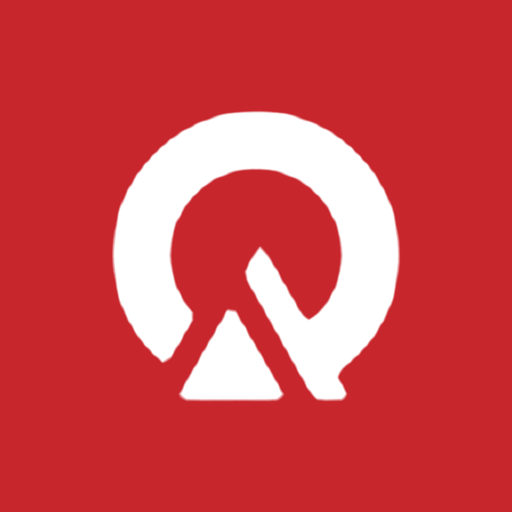
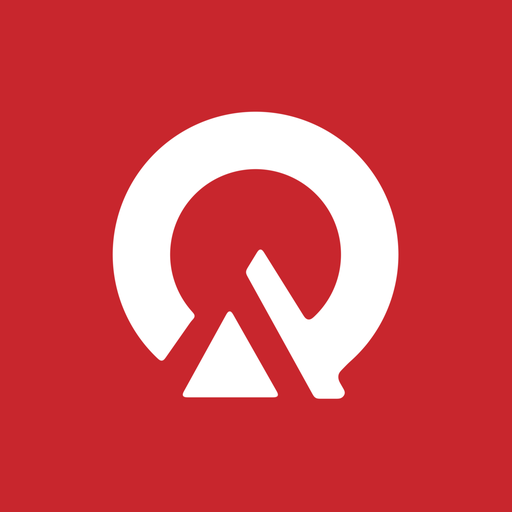
QAYO İNŞAAT ikon: loqo təmiz vektor kimi yenidən çəkildi
Claude-Session: https://claude.ai/code/session_015bWUqTrwxP6WJD2huPpqwx

diff --git a/assets/ikon/ikon-yarat.py b/assets/ikon/ikon-yarat.py
@@ -1,0 +1,32 @@
+from PIL import Image, ImageDraw, ImageFilter
+SS=8
+def mark_mask():
+    W,H=(520+30)*SS,(520+30)*SS
+    off=15
+    def P(pts): return [((x+off)*SS,(y+off)*SS) for x,y in pts]
+    m=Image.new("L",(W,H),0);d=ImageDraw.Draw(m)
+    cx,cy,R,r=308,299,204,122
+    d.ellipse([(cx-R+off)*SS,(cy-R+off)*SS,(cx+R+off)*SS,(cy+R+off)*SS],fill=255)
+    d.ellipse([(cx-r+off)*SS,(cy-r+off)*SS,(cx+r+off)*SS,(cy+r+off)*SS],fill=0)
+    d.polygon(P([(217,393),(100,560),(100,640),(468,640),(293,324)]),fill=0)
+    d.polygon(P([(315,288),(293,324),(393,505),(431,505),(437,497),(426,478),(426,469),(468,426),(440,400),(380,392)]),fill=255)
+    d.polygon(P([(271,376),(201,503),(343,503)]),fill=255)
+    m=m.filter(ImageFilter.GaussianBlur(3.2*SS))  # soften corners
+    import numpy as np
+    a=np.array(m).astype(float)/255;a=np.clip((a-0.5)*10+0.5,0,1)
+    m=Image.fromarray((a*255).astype("uint8"))
+    bbox=((104-6+off)*SS,(95-6+off)*SS,(512+7+off)*SS,(506+7+off)*SS)
+    return m.crop(bbox)
+RED=(200,38,45)
+def icon(S,ratio,mark):
+    T=S*4;mw,mh=mark.size;k=ratio*T/max(mw,mh)
+    mm=mark.resize((int(mw*k),int(mh*k)),Image.LANCZOS)
+    b=Image.new("RGB",(T,T),RED);b.paste((255,255,255),((T-mm.size[0])//2,(T-mm.size[1])//2),mm)
+    return b.resize((S,S),Image.LANCZOS)
+if __name__=="__main__":
+    mk=mark_mask()
+    i=icon(1024,0.58,mk);i.save("V-ikon-1024.png")
+    for n,s in [("qayo-pwa-192.png",192),("qayo-pwa-512.png",512),("qayo-apple-touch-180.png",180)]: icon(s,0.58,mk).save("V-"+n)
+    icon(512,0.42,mk).save("V-qayo-pwa-maskable-512.png")
+    p=i.resize((400,400),Image.LANCZOS);k=Image.new("L",(400,400),0);ImageDraw.Draw(k).rounded_rectangle((0,0,399,399),90,fill=255)
+    sh=Image.new("RGB",(460,460),(238,240,244));sh.paste(p,(30,30),k);sh.save("V-onizleme.png")
